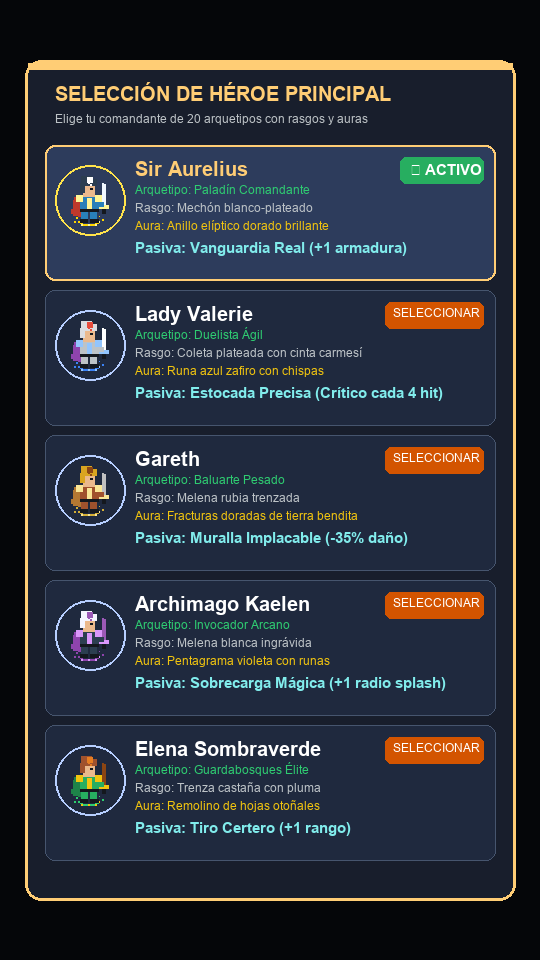
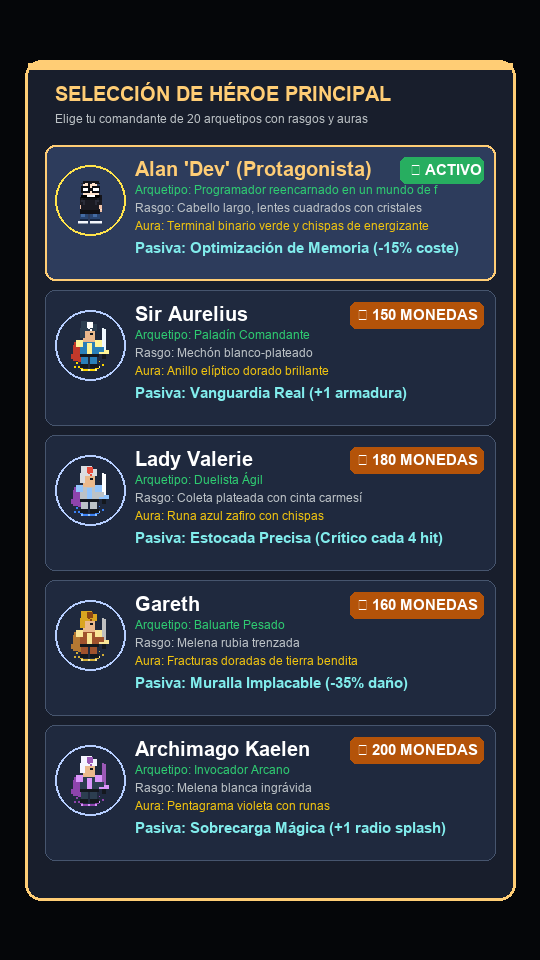
update: sync monitor status and assets

diff --git a/index.html b/index.html
@@ -152,7 +152,7 @@
   <div class="grid-stats">
     <div class="stat-card">
       <div class="stat-label">Pruebas EditMode</div>
-      <div class="stat-value stat-highlight" id="testsValue">33 / 33 Pasadas</div>
+      <div class="stat-value stat-highlight" id="testsValue">42 / 42 Pasadas (100%)</div>
     </div>
     <div class="stat-card">
       <div class="stat-label">Simulación de Batalla</div>
@@ -160,11 +160,11 @@
     </div>
     <div class="stat-card">
       <div class="stat-label">Unidades & Facciones</div>
-      <div class="stat-value stat-highlight">17 Tropas + 20 Héroes</div>
+      <div class="stat-value stat-highlight">18 Tropas + 21 Héroes</div>
     </div>
     <div class="stat-card">
       <div class="stat-label">Campaña & Niveles</div>
-      <div class="stat-value" style="color: var(--green);">10 Misiones Continentales</div>
+      <div class="stat-value" style="color: var(--green);">13 Misiones Continentales</div>
     </div>
   </div>
 
@@ -240,21 +240,28 @@
         <img src="screenshots/09_continental_overworld_map.png" class="gallery-thumb" alt="Mapamundi Continental">
         <div class="gallery-info">
           <div class="gallery-title">2. Mapamundi Continental Modular</div>
-          <div class="gallery-desc">Retazos de tiles 4-bit, sendero de rutas animadas, niebla de guerra en zonas de jefe y nodo capital con Héroe.</div>
+          <div class="gallery-desc">Retazos de tiles 4-bit, sendero de rutas animadas y comandante supremo Alan 'Dev' liderando desde la capital.</div>
         </div>
       </div>
       <div class="gallery-card" onclick="openLightbox('screenshots/06_settings_modal.png')">
         <img src="screenshots/06_settings_modal.png" class="gallery-thumb" alt="Menú de Ajustes">
         <div class="gallery-info">
-          <div class="gallery-title">3. Menú de Ajustes (Guardado & Carga Local)</div>
-          <div class="gallery-desc">Botones manuales 'Guardar Partida (Local)' y 'Cargar Partida (Local)' con retroalimentación sonora, selector de héroe y volumen.</div>
+          <div class="gallery-title">3. Menú de Ajustes (Velocidad & Guardado)</div>
+          <div class="gallery-desc">Slider de velocidad x1/x2/x3, guardado y carga local persistente en IndexedDB, selección de héroes y audio.</div>
         </div>
       </div>
       <div class="gallery-card" onclick="openLightbox('screenshots/08_hero_selection.png')">
         <img src="screenshots/08_hero_selection.png" class="gallery-thumb" alt="Selector de Héroes">
         <div class="gallery-info">
-          <div class="gallery-title">4. Selector de Héroes Comandantes</div>
-          <div class="gallery-desc">Catálogo de 20 arquetipos únicos con peinados característicos, auras luminosas animadas y pasivas de combate.</div>
+          <div class="gallery-title">4. Selector de Héroes & Tienda de Monedas</div>
+          <div class="gallery-desc">Alan 'Dev' activo por defecto con su nuevo sprite de programador, y 20 héroes desbloqueables por Monedas de Guerra.</div>
+        </div>
+      </div>
+      <div class="gallery-card" onclick="openLightbox('screenshots/10_dialogue_banner.png')">
+        <img src="screenshots/10_dialogue_banner.png" class="gallery-thumb" alt="Microdiálogos en Batalla">
+        <div class="gallery-info">
+          <div class="gallery-title">5. Microdiálogos Dinámicos (DialogueBanner)</div>
+          <div class="gallery-desc">Comentarios satíricos y reactivos en combate: despertar isekai, quejas de economía de madera y órdenes tácticas.</div>
         </div>
       </div>
       <div class="gallery-card" onclick="openLightbox('screenshots/03_battle.png')">
@@ -550,16 +557,26 @@
       </table>
     </div>
 
-    <h3 class="section-title" style="margin-top: 32px;">👑 20 Héroes Comandantes del Reino (Seleccionables)</h3>
+    <h3 class="section-title" style="margin-top: 32px;">👑 21 Héroes Comandantes del Reino (Seleccionables)</h3>
     <p style="color: #94a3b8; font-size: 0.9rem; margin-bottom: 16px;">
-      El jugador puede seleccionar a su Héroe Comandante favorito desde el menú de Ajustes para liderar al Reino de Hierro en el mapa y la campaña. Cada héroe cuenta con sprite exclusivo, peinado y rasgo distintivo, aura pixel art y una habilidad pasiva única.
+      El jugador comienza la campaña con <b>Alan 'Dev'</b> como protagonista inicial por defecto, y puede desbloquear al resto de comandantes en el modal de Héroes utilizando Monedas de Guerra ganadas en combate. Cada héroe cuenta con sprite pixel art exclusivo, microdiálogos reactivos de batalla, rasgos distintivos y auras animadas.
     </p>
     <div class="hero-grid">
+      <!-- HEROE PROTAGONISTA -->
+      <div class="hero-card" style="border: 2px solid #38bdf8; background: linear-gradient(135deg, #0e1726 0%, #152238 100%);">
+        <img src="sprites/Units/hero_21.png" class="hero-card-img" alt="Alan 'Dev'" style="image-rendering: pixelated; width: 64px; height: 64px; border: 2px solid #38bdf8; border-radius: 8px;">
+        <div>
+          <div class="hero-name" style="color: #38bdf8;">★ PROTAGONISTA: Alan 'Dev' &bull; El Arquitecto del Código</div>
+          <div class="hero-meta" style="color: #a5f3fc;">Programador reencarnado en un mundo de fantasía &bull; Pasiva: Optimización de Memoria (Gratis / Inicial)</div>
+          <div class="hero-desc"><b>Rasgo:</b> Cabello negro largo, lentes cuadrados de montura gruesa con cristales blancos opacos y remera negra lisa sin logos.<br><b>Lore:</b> Un desarrollador de software que colapsó en su escritorio tras seis latas de energizante debugueando shaders a las 4 AM. Despierta en Aldoria convencido de que la guerra es una simulación RTS de los 90, tratando a los orcos como scripts defectuosos de IA y quejándose si el jugador no mejora el aserradero en los primeros 10 segundos.</div>
+          <div class="hero-aura">✨ Terminal binario verde, chispas de energizante y microdiálogos dinámicos en batalla</div>
+        </div>
+      </div>
       <div class="hero-card">
         <img src="sprites/Units/hero_01.png" class="hero-card-img" alt="Sir Aurelius">
         <div>
           <div class="hero-name">01. Sir Aurelius &bull; Filo de la Corona</div>
-          <div class="hero-meta">Paladín Comandante &bull; Pasiva: Vanguardia Real</div>
+          <div class="hero-meta">Paladín Comandante &bull; Pasiva: Vanguardia Real (🪙 150 Monedas)</div>
           <div class="hero-desc">+1 de armadura a todas las tropas aliadas al avanzar. Mechón rebelde blanco-plateado sobre pelo oscuro.</div>
           <div class="hero-aura">✨ Anillo elíptico dorado de 2px con destellos ámbar</div>
         </div>
@@ -782,6 +799,12 @@
     <h2 class="section-title">📜 Registro de Hitos & DevLog</h2>
     <div id="timelineContainer">
       <!-- Se carga dinámicamente desde backlog.json o estático de respaldo -->
+      <div class="timeline-item">
+        <div class="timeline-text"><b>[2026-10-11] FASE-21 (v0.6.0):</b> Protagonista Alan 'Dev' (Isekai Programador), Microdiálogos Dinámicos & Desbloqueo de Héroes — Alan 'Dev' (hero_21) establecido como héroe y comandante principal al iniciar nueva partida con sprite pixel art exclusivo (cabello largo negro, lentes de montura gruesa y cuadrada con cristales blancos opacos y remera negra lisa sin logos); nuevo sistema de microdiálogos reactivos (DialogueBanner) con barks contextuales (despertar isekai, quejas satíricas por demorar la mejora del aserradero a los 10s y órdenes de combate); bloqueo del resto de héroes para desbloqueo mediante Monedas de Guerra; ampliación y mejoras de contraste/legibilidad en el HUD del mapamundi; y suite de 42/42 pruebas EditMode pasando al 100%.</div>
+      </div>
+      <div class="timeline-item">
+        <div class="timeline-text"><b>[2026-10-10] FASE-20:</b> Dragón Negro Volador, Velocidades Dinámicas y Batallas de Overworld — Unidad legendaria Dragón Negro con ataque de fuego en área y vuelo inmune a melee; velocidades de avance diferenciadas por tropa; y 3 nuevas misiones en el mapa continental (Oasis, Puerto Celeste, Ruinas).</div>
+      </div>
       <div class="timeline-item">
         <div class="timeline-text"><b>[2026-10-09] FASE-17 (v0.5.1):</b> Tope de 5 Aldeanos, Dock Izquierdo de Mejoras y Optimización de Spawn — Límite estricto de 5 aldeanos simultáneos por facción para erradicar cuellos de botella de recolección y bloqueos de pathfinding, indicador visual reactivo '0/5' con tarjeta en estado LÍMITE en el HUD, mina de oro alejada a distancia segura en los 10 mapas para liberar el radio de despliegue, nuevo dock retráctil UpgradesDock con alerta emergente '!' al poder costear mejoras, reubicación del Aserradero y adición de 3 mejoras de combate temporales (Filos Templados, Armadura de Acero, Marcha Forzada). 35/35 pruebas EditMode pasando.</div>
       </div>
